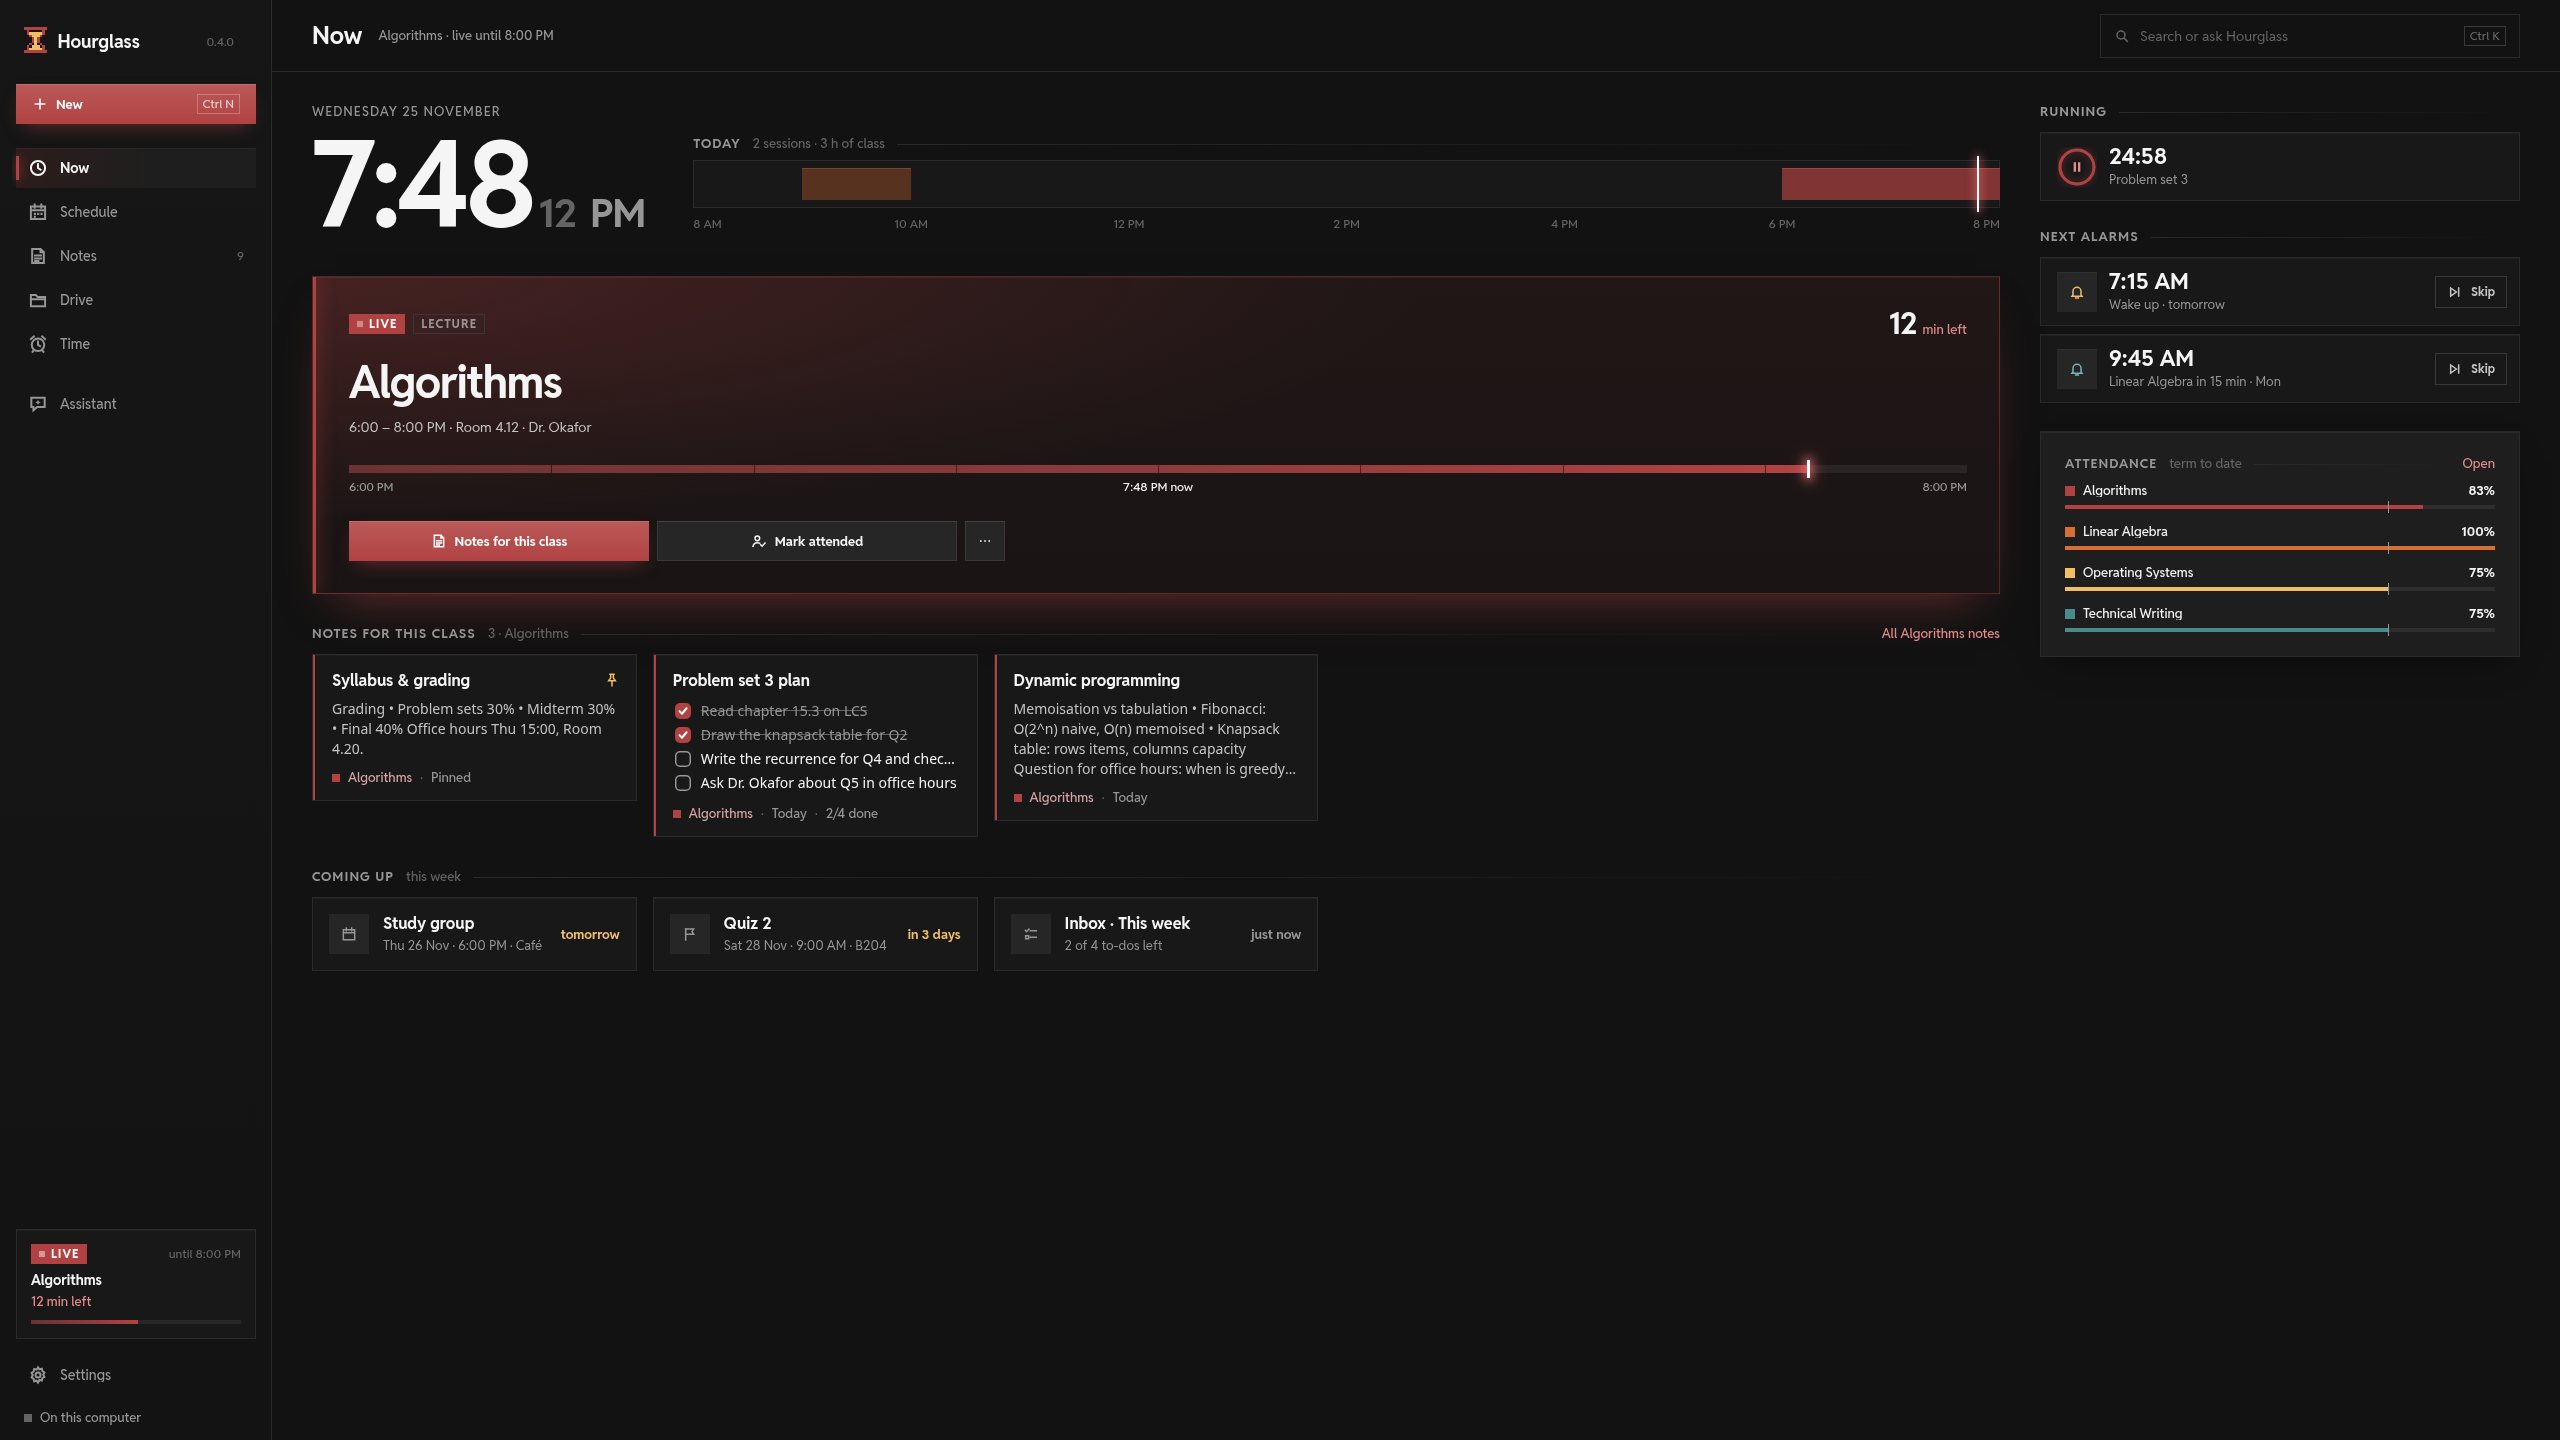
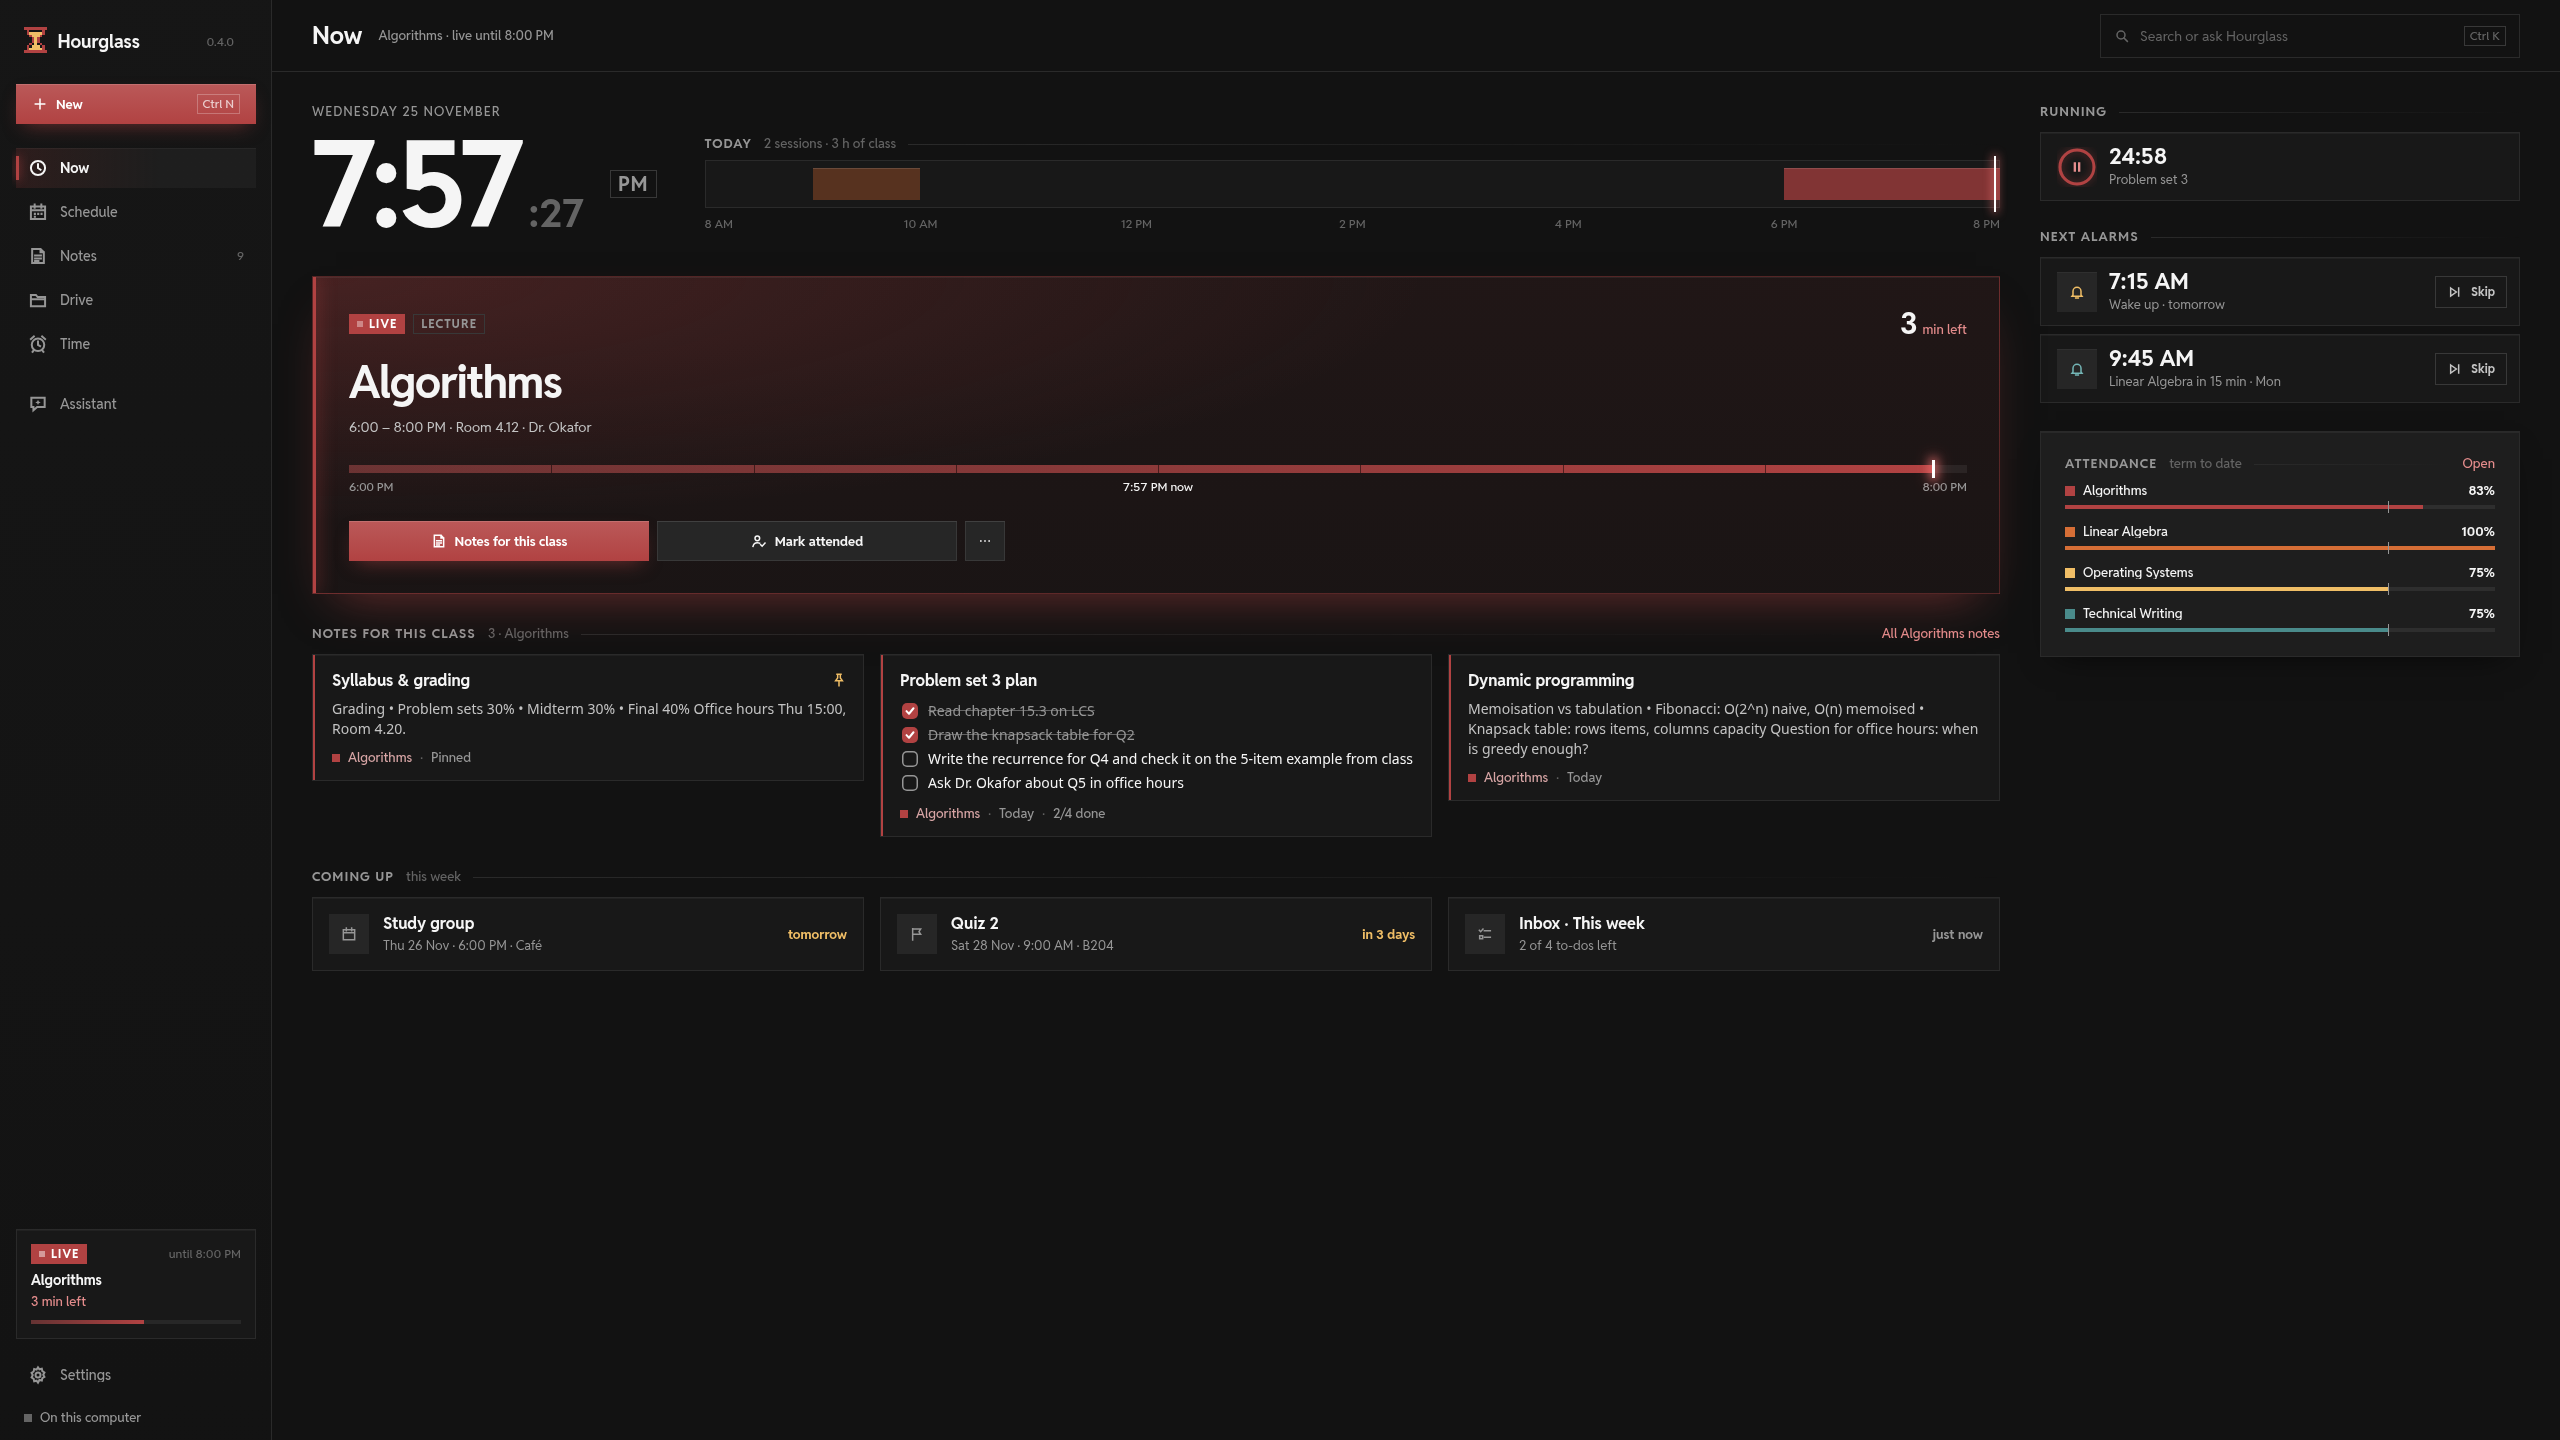
Desktop 0.4: clock seconds and AM/PM read apart; card grids fill the column
- Now clock: seconds as :12 in the muted style, AM/PM its own small boxed label set 20px apart
- Card grids use auto-fit so 3 cards fill the column (Now notes and coming up, attendance, world clock, drive tiles); the live-class band on Notes uses one column per card
- Re-rendered Now, Notes, Timers, World, Alarms, Drive, Attendance at 2560 and 1920

diff --git a/desktop/ui/css/pages.css b/desktop/ui/css/pages.css
@@ -23,7 +23,7 @@
 .hero.off .meta { color: var(--muted); font-size: 14px; }
 .hero.off .acts .btn { flex: none; min-width: 0; }
 
-.note-grid { display: grid; grid-template-columns: repeat(auto-fill, minmax(300px, 1fr)); gap: 16px; align-items: start; }
+.note-grid { display: grid; grid-template-columns: repeat(auto-fit, minmax(300px, 1fr)); gap: 16px; align-items: start; }
 .note-card { display: block; width: 100%; padding: 16px 16px 16px 19px; text-align: left; color: var(--fg); font: inherit; overflow: hidden; }
 .note-card .edge { position: absolute; left: -1px; top: -1px; bottom: -1px; width: 3px; background: var(--c); }
 .note-card.active { background: var(--surface3); border-color: var(--border2); box-shadow: var(--lift); }
@@ -82,8 +82,10 @@ button.it:hover .h { color: var(--accent-ink); }
 .now-date { font: 500 var(--fs-small)/16px var(--ui); letter-spacing: 1px; text-transform: uppercase; color: var(--muted); }
 .now-clock { display: flex; align-items: baseline; gap: 6px; margin-top: 4px; font: 700 120px/1 var(--ui); letter-spacing: -6px; }
 .now-clock .hm > span { display: inline-block; }
-.now-clock small { font: 700 40px/1 var(--ui); color: var(--faint); letter-spacing: -1px; }
-.now-clock .ap { margin-left: 8px; color: var(--muted); }
+.now-clock small { font: 700 40px/1 var(--ui); color: var(--faint); letter-spacing: 0; }
+.now-clock .sec { margin-left: 4px; }
+/* AM/PM is its own small label, set well apart from the seconds so it never reads as part of them. */
+.now-clock .ap { margin-left: 20px; padding: 4px 8px; font: 700 20px/20px var(--ui); letter-spacing: 1px; color: var(--muted); box-shadow: inset 0 0 0 1px var(--border2); align-self: center; }
 .daystrip { flex: 1; min-width: 0; padding-bottom: 12px; }
 .ds-bar { position: relative; height: 48px; background: var(--surface); box-shadow: inset 0 0 0 1px var(--border); }
 .ds-blk { position: absolute; top: 8px; bottom: 8px; padding: 0; border: 0; background: color-mix(in srgb, var(--c) 70%, var(--bg)); box-shadow: inset 0 1px 0 rgb(255 255 255 / .12); cursor: pointer; transition: background-color var(--quick) var(--ease); }
@@ -94,7 +96,7 @@ button.it:hover .h { color: var(--accent-ink); }
 .ds-hours span { position: absolute; transform: translateX(-50%); white-space: nowrap; }
 .ds-hours span:first-child { transform: none; }
 .ds-hours span:last-child { transform: translateX(-100%); }
-.upcoming { display: grid; grid-template-columns: repeat(auto-fill, minmax(min(300px, 100%), 1fr)); gap: 16px; }
+.upcoming { display: grid; grid-template-columns: repeat(auto-fit, minmax(min(300px, 100%), 1fr)); gap: 16px; }
 .up { display: flex; align-items: center; gap: 14px; padding: 16px; text-align: left; color: var(--fg); font: inherit; }
 .up .ibox { width: 40px; height: 40px; flex: none; display: grid; place-items: center; background: var(--surface3); color: var(--muted); font-size: 14px; }
 .up .grow { display: grid; gap: 4px; }
@@ -110,7 +112,7 @@ button.it:hover .h { color: var(--accent-ink); }
 .term .tbar i { position: absolute; left: 0; top: 0; bottom: 0; background: var(--c); transition: width 600ms var(--ease); }
 .term .tbar s { position: absolute; left: 75%; top: -4px; bottom: -4px; width: 1px; background: var(--muted); }
 @container page (max-width: 1100px) { .now-top { flex-wrap: wrap; gap: 16px 48px; } .daystrip { flex-basis: 100%; } }
-@container page (max-width: 700px) { .now-clock { font-size: 80px; } .now-clock small { font-size: 28px; } .hero { padding: 24px 20px 24px 24px; } .hero h2 { font-size: 30px; } .hero .acts .btn:not(.sq) { flex: 1 1 0; min-width: 0; } .hero .acts .btn.primary { flex-basis: 100%; } }
+@container page (max-width: 700px) { .now-clock { font-size: 80px; } .now-clock small { font-size: 28px; } .now-clock .ap { font-size: 14px; line-height: 16px; margin-left: 12px; } .hero { padding: 24px 20px 24px 24px; } .hero h2 { font-size: 30px; } .hero .acts .btn:not(.sq) { flex: 1 1 0; min-width: 0; } .hero .acts .btn.primary { flex-basis: 100%; } }
 
 /* ---- sign-in (whole window) ---- */
 .login-wrap { position: fixed; inset: 0; z-index: 60; background: var(--bg); display: grid; place-items: center; overflow-y: auto; animation: fade-in 200ms var(--ease) both; }
@@ -197,7 +199,7 @@ button.it:hover .h { color: var(--accent-ink); }
 .mitem i { width: 3px; height: 14px; background: var(--c); flex: none; }
 
 /* ---- Attendance: course cards side by side, the term on the right. Marks are the original ✓ ✗ – glyph boxes. ---- */
-.att-grid-cards { display: grid; grid-template-columns: repeat(auto-fill, minmax(min(520px, 100%), 1fr)); gap: 16px; align-items: start; }
+.att-grid-cards { display: grid; grid-template-columns: repeat(auto-fit, minmax(min(520px, 100%), 1fr)); gap: 16px; align-items: start; }
 .att-card { display: grid; gap: 12px; padding: 20px 20px 20px 23px; }
 .att-card .edge { position: absolute; left: -1px; top: -1px; bottom: -1px; width: 3px; background: var(--c); }
 .att-name { font: 700 16px/20px var(--ui); }
@@ -306,7 +308,7 @@ button.it:hover .h { color: var(--accent-ink); }
 .zone-drop { position: absolute; top: calc(100% + 4px); left: 0; right: 0; z-index: 30; padding: 4px; background: var(--surface3); border: 1px solid var(--border2); border-radius: 4px; box-shadow: var(--float); animation: menu-in 140ms var(--ease) both; }
 .zone-drop button { display: flex; align-items: center; gap: 10px; width: 100%; height: 40px; padding: 0 10px; border: 0; border-radius: 3px; background: transparent; color: var(--fg); font: 500 13px var(--ui); text-align: left; cursor: pointer; }
 .zone-drop button:hover, .zone-drop button.kb { background: color-mix(in srgb, var(--accent) 26%, transparent); }
-.clock-grid { display: grid; grid-template-columns: repeat(auto-fill, minmax(min(320px, 100%), 1fr)); gap: 16px; max-width: 2400px; margin-inline: auto; }
+.clock-grid { display: grid; grid-template-columns: repeat(auto-fit, minmax(min(320px, 100%), 1fr)); gap: 16px; max-width: 2400px; margin-inline: auto; }
 .clock-card { display: grid; gap: 6px; align-content: start; padding: 20px 20px 20px 23px; min-height: 184px; }
 .clock-card.home { background: linear-gradient(90deg, color-mix(in srgb, var(--accent) 10%, transparent), transparent 70%), var(--surface); }
 .clock-card .row b { font: 700 16px/20px var(--ui); }

diff --git a/desktop/ui/css/drive.css b/desktop/ui/css/drive.css
@@ -9,7 +9,7 @@
 .drive { max-width: 1240px; }
 .files-block { display: grid; }
 .sort-row { margin-bottom: 12px; }
-.course-tiles { display: grid; grid-template-columns: repeat(auto-fill, minmax(220px, 1fr)); gap: 10px; }
+.course-tiles { display: grid; grid-template-columns: repeat(auto-fit, minmax(220px, 1fr)); gap: 10px; }
 .course-tile { display: grid; gap: 4px; padding: 14px 14px 14px 18px; text-align: left; color: var(--fg); font: inherit; }
 .course-tile small { font-size: 12px; }
 .ok-ink { color: var(--teal); }
@@ -38,7 +38,7 @@ img.fi.thumb { object-fit: cover; border: 1px solid var(--border); }
 .mark-share { color: var(--muted); font-size: 12px; }
 .dgrid { display: grid; gap: 12px; margin-bottom: 12px; }
 .dgrid.v-icons { grid-template-columns: repeat(auto-fill, 132px); }
-.dgrid.v-gallery { grid-template-columns: repeat(auto-fill, minmax(220px, 1fr)); }
+.dgrid.v-gallery { grid-template-columns: repeat(auto-fit, minmax(220px, 1fr)); }
 .dicon { width: 132px; height: 132px; display: grid; justify-items: center; align-content: center; gap: 8px; padding: 10px; background: var(--surface); border: 1px solid var(--border); text-align: center; }
 .dicon:hover { background: var(--surface2); border-color: var(--faint); }
 .dicon .fi { width: 56px; height: 56px; font-size: 32px; }

diff --git a/desktop/ui/pages/notes.js b/desktop/ui/pages/notes.js
@@ -94,7 +94,9 @@ export default {
       swap(grid, list.length
         ? out.map((col) => h('div', { class: `mcol ${first ? 'stagger' : ''}` }, col.map(card)))
         : band.length ? null : h('div', { class: 'empty notes-empty' }, h('h2', { text: query ? 'No notes match' : 'Nothing here yet' }), h('p', { text: query ? 'Try other words.' : 'Notes you take will show up here.' })));
-      liveEl.querySelector('.band')?.style.setProperty('grid-template-columns', `repeat(${cols}, minmax(0, 1fr))`);
+      const bandEl = liveEl.querySelector('.band');
+      // The live class's notes fill the row: as many equal columns as there are cards, up to the grid's own.
+      if (bandEl) bandEl.style.setProperty('grid-template-columns', `repeat(${Math.max(1, Math.min(cols, bandEl.children.length))}, minmax(0, 1fr))`);
       first = false;
     }
 

diff --git a/desktop/ui/pages/now.js b/desktop/ui/pages/now.js
@@ -71,7 +71,7 @@ export default {
       const p = U.clockParts(state.clock);
       const hm = h('span', { class: 'hm' }, ...[...p.hm].map((ch, i) => h('span', { class: clockEl.dataset.hm && clockEl.dataset.hm[i] !== ch ? 'roll' : '', text: ch })));
       clockEl.dataset.hm = p.hm;
-      swap(clockEl, hm, h('small', { class: 'sec', text: p.s }), p.ap ? h('small', { class: 'ap', text: p.ap }) : null);
+      swap(clockEl, hm, h('small', { class: 'sec', text: ':' + p.s }), p.ap ? h('small', { class: 'ap', text: p.ap }) : null);
       const d = state.now?.now?.date || today();
       dateEl.textContent = `${U.weekdaysLong[U.isoWeekday(d) - 1]} ${U.dayNum(d)} ${U.monthName(d)}`;
     }
